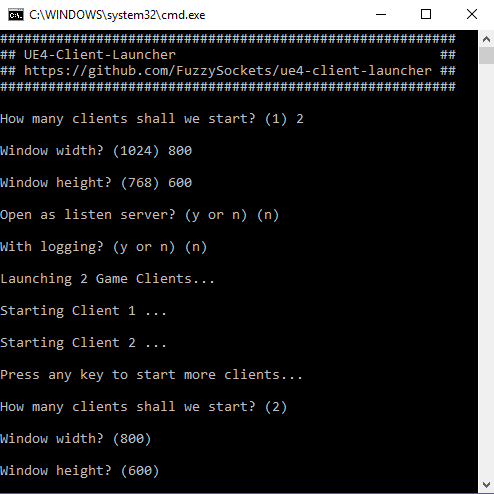
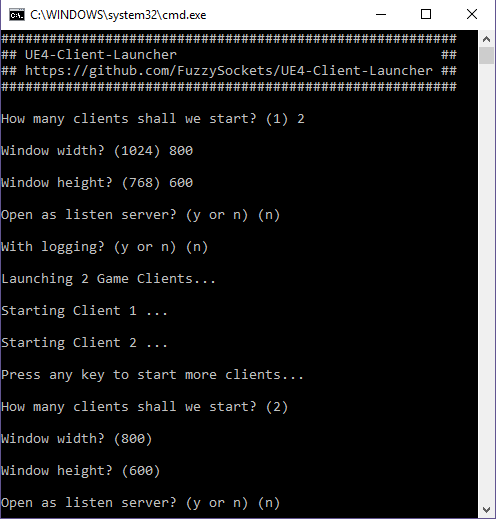
update repository url and screenshot

Changed region(s): [[0.0, 0.0, 1.0, 1.0], [0.5162, 0.9413, 0.5769, 1.0], [0.3644, 0.8198, 0.3947, 0.8502]]

diff --git a/README.md b/README.md
@@ -3,7 +3,7 @@ A simple batch script to quickly launch clients and listen servers.
 
 Installation
 --------
-1. Place UE4-Client-Launcher in the folder containing your .uproject.
+1. Place UE4-Client-Launcher.bat in the folder containing your .uproject.
 2. Open the .bat file in a text editor and ensure the path to the engine is correct.
 3. Run the batch script to start launching clients.
 
